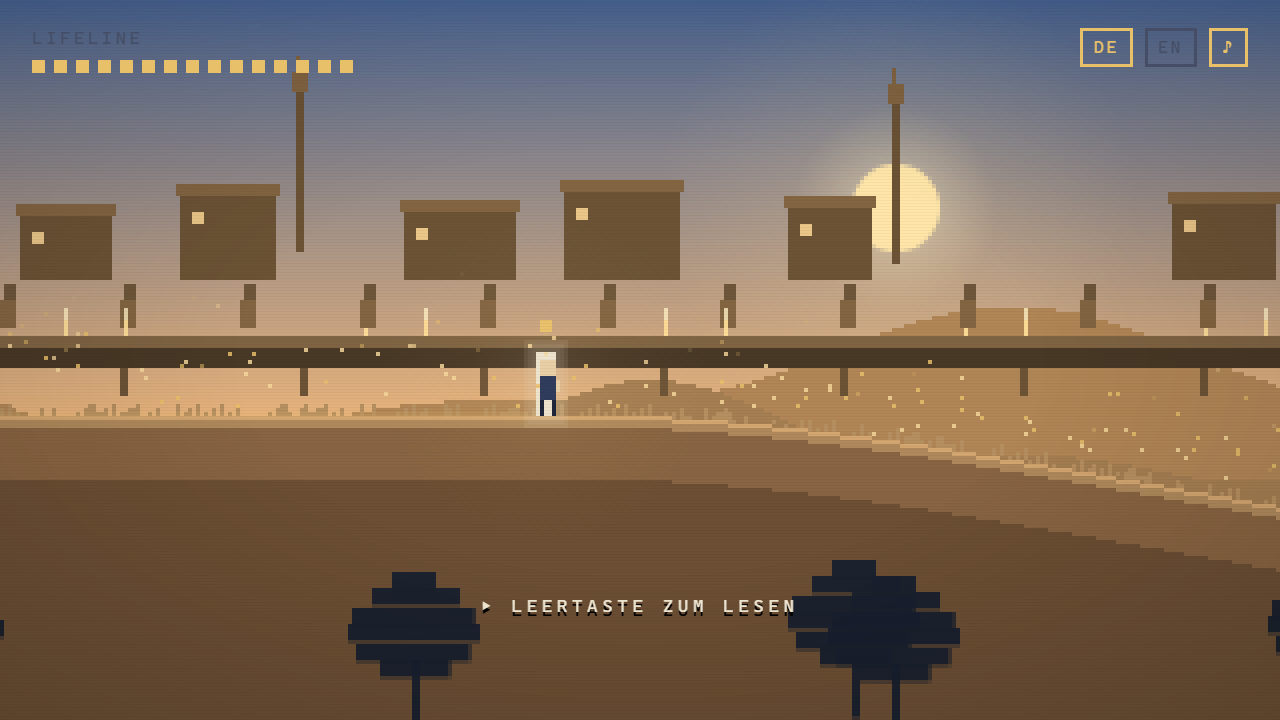
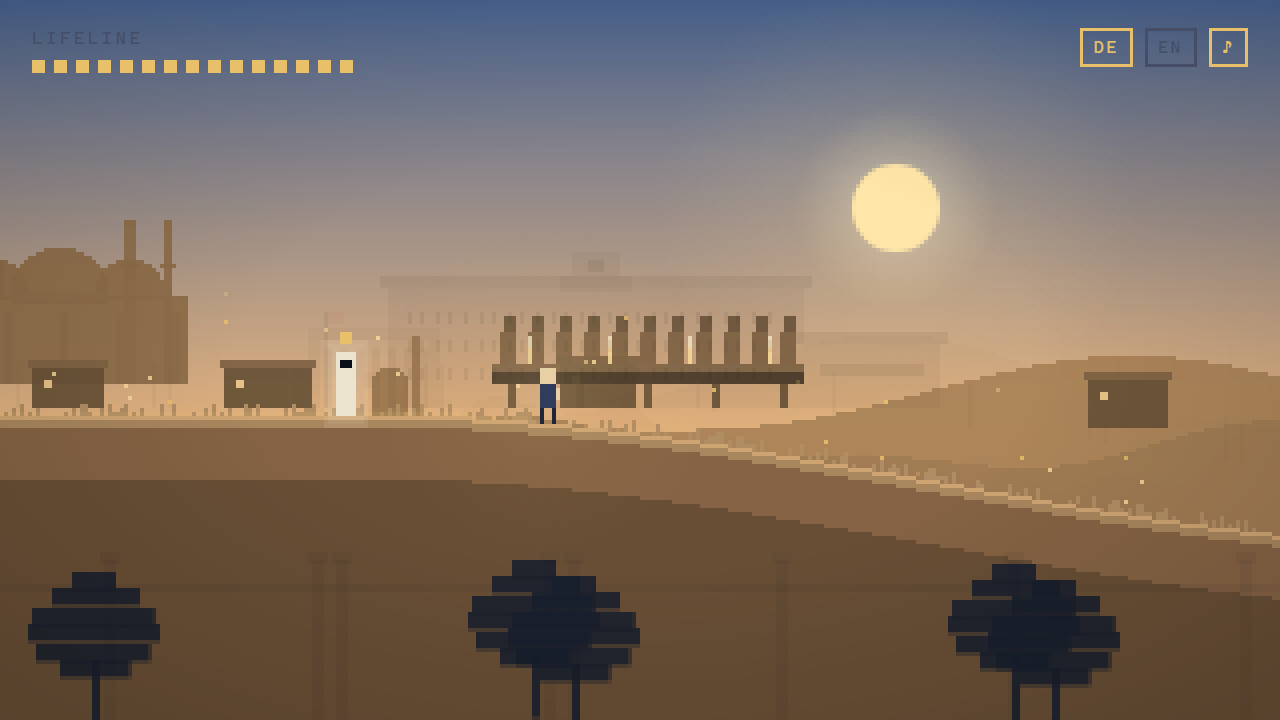
Thematische Wahrzeichen statt generischer Kulissen
Nach Recherche zu Formsprache und Proportionen der realen Bauten und
Landschaften (keine fremde Pixel-Art kopiert, alles selbst gezeichnet):

- Kindheit: Istanbul am Horizont mit Hagia Sophia — flache weite Kuppel
  im Verhaeltnis 5:2, zwei Halbkuppeln, gestufte Kaskade, vier Minarette
  in 2+2-Gruppierung, deren Spitzen nur knapp ueber den Kuppelscheitel
  ragen (der klassische Zeichenfehler macht sie doppelt so hoch). Dazu
  Galata-Turm und zweite Moschee. Der grosse Tisch ist jetzt ein
  einzelnes Element mit Sitzenden und Kerzen statt eines Bandes ueber die
  ganze Bildbreite; die viel zu grossen schwebenden Haeuser sind weg.
- 2011: Schweizer Sekundarschulhaus — langer ruhiger Quader, flaches
  Dach, Fensterraster, breiter niedriger Uhrenaufsatz, Turnhallentrakt,
  Fahnenmast, Zaun und geschlossenes Tor davor.
- Australien: Surfers Paradise als lueckenlose Turmwand direkt hinter
  dem Strand mit Massiv im mittleren Drittel und dem Q1 als schlankem
  Schaft mit Nadel. Palmen sind jetzt volle Silhouetten.
- Militaer: Panzer 87 auf dem Appellplatz — langer flacher Kasten auf
  Kettenband, Glacis vorn, Turm hinten, langes Rohr.
- Angola: Baobabs als Fassform mit flacher sparriger Krone, Schirm-
  akazien als liegende Platten, Foerderturm mit Seilrad und schraegen
  Stuetzbeinen, Wellblechzeile.

Changed region(s): [[0.0, 0.0917, 1.0, 1.0], [0.0, 0.7944, 0.125, 1.0]]

diff --git a/index.html b/index.html
@@ -629,7 +629,7 @@ function wrapX(i,spacing,par,pad){
   return ((i*spacing - camX*par)%(VW+pad)+VW+pad)%(VW+pad)-pad/2;
 }
 var SCENE={
-  table:  {far:'hillsWarm', mid:'mTable',   near:'olive'},
+  table:  {far:'istanbul',  mid:'mTable',   near:'olive'},
   gate:   {far:'hillsCold', mid:'mGate',    near:'rail'},
   ocean:  {far:'sea',       mid:'mCoast',   near:'palm'},
   sold:   {far:'flatGrey',  mid:'mSold',    near:'fence'},
@@ -669,6 +669,119 @@ function atmo(P,f,d){
                 Math.round(P.cap[2]*f+(P.sky[2]-P.cap[2]*f)*m)+')';
 }
 function haze(y,h,col,a){ x.globalAlpha=a; px(0,y,VW,h,col); x.globalAlpha=1; }
+/* Hagia Sophia — flache weite Kuppel, gestufte Kaskade, vier Minarette
+   die nur knapp ueber den Kuppelscheitel ragen (das ist die Signatur) */
+function hagia(cx,by,col,warm){
+  var bw=62, bh=16, apex=by-34, i;
+  /* Minarette zuerst, sie stehen hinter dem Block */
+  var mx=[cx-bw/2+3, cx-bw/2+13, cx+bw/2-15, cx+bw/2-5];
+  for(i=0;i<4;i++){
+    var w2=(i===2)?3:2, top=apex-5;
+    px(mx[i],top,w2,by-top,(i===2)?warm:col);
+    px(mx[i]-1,top+9,w2+2,1,col);           /* Serefe */
+    px(mx[i],top-2,w2,2,col);               /* Kappe  */
+  }
+  /* dritte, flachste Stufe */
+  px(cx-bw/2,apex+12,bw,by-(apex+12),col);
+  /* Halbkuppeln */
+  for(i=0;i<17;i++){
+    var hh=Math.round(Math.sqrt(Math.max(0,1-Math.pow((i-8)/8.5,2)))*7);
+    px(cx-25+i,apex+10-hh,1,hh+3,col);
+    px(cx+9+i,apex+10-hh,1,hh+3,col);
+  }
+  /* Hauptkuppel: Breite zu Hoehe 5:2, flach */
+  for(i=0;i<24;i++){
+    var dh=Math.round(Math.sqrt(Math.max(0,1-Math.pow((i-11.5)/12,2)))*10);
+    px(cx-12+i,apex+10-dh,1,dh+4,col);
+  }
+  px(cx-12,apex+11,24,2,warm);                /* Fensterband am Kuppelfuss */
+  /* Strebepfeiler */
+  for(i=0;i<5;i++){ px(cx-bw/2+3+i*14,apex+16,2,by-(apex+16),warm); }
+}
+
+/* Surfers Paradise — lueckenlose Turmwand, in der Mitte ein Massiv,
+   daraus der Q1 mit gerundeter Schulter und haarfeiner Nadel */
+function surfers(baseY,col,lit,par){
+  var i, off=(camX*par)|0;
+  for(i=0;i<VW;i++){
+    var wx=(i+off), n=((wx/7)|0);
+    var h=13+((n*37)%11)+((n*13)%7);
+    var d=Math.abs(((wx%1600)+1600)%1600-820);
+    if(d<150) h+=18-Math.round(d/12);        /* Massiv im mittleren Drittel */
+    px(i,baseY-h,1,h,col);
+    if(((wx*3)|0)%7===0 && h>16) px(i,baseY-h+2,1,1,lit);
+  }
+  /* Q1 — steht im Massiv, ragt weit darueber hinaus */
+  var period=1600, qw=((820-off)%period+period)%period;
+  var cand=[qw-period, qw, qw+period];
+  for(var qi=0;qi<cand.length;qi++){
+    var qx=cand[qi];
+    if(qx<-30||qx>VW+30) continue;
+    var qh=72;
+    px(qx,baseY-qh,8,qh,col);
+    px(qx+1,baseY-qh-4,6,4,col);
+    px(qx+2,baseY-qh-8,4,4,col);
+    px(qx+3,baseY-qh-26,2,18,col);
+    for(i=5;i<qh;i+=6) px(qx+1,baseY-qh+i,6,1,lit);
+  }
+}
+
+/* Panzer 87 — sehr langer flacher Kasten auf Kettenband, Glacis vorn,
+   Turm auf der hinteren Haelfte, langes Rohr nach vorn */
+function panzer(bx,by,col,dark){
+  px(bx,by-3,26,3,dark);                     /* Kettenband */
+  for(var i=0;i<6;i++) px(bx+2+i*4,by-2,2,2,col);
+  px(bx+2,by-7,22,4,col);                    /* Wanne */
+  px(bx,by-6,3,3,col);                       /* Glacis vorn */
+  px(bx+1,by-7,2,1,col);
+  px(bx+9,by-11,11,4,col);                   /* Turm */
+  px(bx+11,by-12,6,1,col);
+  px(bx-9,by-10,14,1,col);                   /* Kanonenrohr */
+  px(bx+19,by-12,1,2,col);                   /* Luke */
+}
+
+/* Schweizer Schulhaus — langer ruhiger Quader, flaches Dach,
+   breiter niedriger Uhrenaufsatz, Turnhallentrakt, Fahnenmast */
+function schulhaus(bx,by,col,lit,accent){
+  var W=104, H=30, i, r, c;
+  px(bx,by-H,W,H,col);
+  px(bx-2,by-H-3,W+4,3,lit);                 /* flaches Dach */
+  for(r=0;r<3;r++) for(c=0;c<26;c++)
+    px(bx+5+c*3.6,by-H+6+r*7,1,3,lit);       /* Fensterraster */
+  px(bx+W/2-9,by-H-3,18,4,col);              /* Eingangsrisalit */
+  px(bx+W/2-6,by-H-9,12,6,col);              /* Uhrenaufsatz, breit und flach */
+  px(bx+W/2-2,by-H-7,4,3,lit);
+  px(bx+W,by-16,34,16,col);                  /* Turnhalle */
+  px(bx+W-2,by-19,38,3,lit);
+  px(bx+W+4,by-11,26,3,lit);                 /* Bandfenster */
+  px(bx-16,by-24,1,24,lit);                  /* Fahnenmast */
+  px(bx-15,by-24,4,3,accent);
+}
+
+/* Baobab: dicker Fassstamm, flache sparrige Krone */
+function baobab(bx,by,sc,col){
+  var tw=Math.round(7*sc), th=Math.round(17*sc), i;
+  px(bx,by-th,tw,th,col);
+  px(bx-1,by-4*sc,tw+2,4*sc,col);
+  for(i=0;i<5;i++){
+    var a=[-9,-5,0,5,9][i]*sc, l=[4,6,7,6,4][i]*sc;
+    px(bx+tw/2+a-1,by-th-l,2,l,col);
+  }
+  px(bx-8*sc,by-th-2,tw+16*sc,2,col);
+}
+function akazie(bx,by,sc,col){
+  px(bx+2,by-9*sc,2,9*sc,col);
+  px(bx-8*sc,by-12*sc,20*sc,3*sc,col);
+  px(bx-4*sc,by-14*sc,12*sc,2*sc,col);
+}
+/* Foerderturm mit Seilrad und schraegen Stuetzbeinen */
+function foerderturm(bx,by,col){
+  px(bx+4,by-32,3,32,col); px(bx+11,by-32,3,32,col);
+  px(bx+4,by-18,10,2,col); px(bx+4,by-8,10,2,col);
+  for(var i=0;i<10;i++) px(bx+4+i,by-28+i,1,1,col);
+  px(bx+6,by-36,5,5,col);                    /* Seilrad */
+  for(i=0;i<12;i++) px(bx+14+i,by-30+i*2.4,2,2,col);
+}
 function tree(kind,bx,by,sc,col){
   var i,w;
   if(kind==='pine'){
@@ -676,16 +789,17 @@ function tree(kind,bx,by,sc,col){
     for(i=0;i<6;i++){ w=(15-i*2.2)*sc; px(bx+3-w/2,by-(5+i*3.4)*sc,w,4*sc,col); }
     px(bx+2,by-27*sc,2,3*sc,col);
   } else if(kind==='palm'){
-    for(i=0;i<12*sc;i++) px(bx+2+Math.sin(i/(9*sc))*3,by-i,1,1,col);
-    var ty=by-12*sc;
-    for(i=0;i<5;i++){
-      var dx=[-8,-5,0,5,8][i]*sc, dy=[-1,-4,-6,-4,-1][i]*sc;
-      for(var k=0;k<Math.abs(dx);k++){
-        var fx=bx+2+(dx>0?k:-k), fy=ty+dy*k/Math.max(1,Math.abs(dx))+k*k*.05;
-        px(fx,fy,1,1+(k<3?1:0),col);
+    var th2=Math.round(14*sc);
+    for(i=0;i<th2;i++) px(bx+2+Math.round(Math.sin(i/(th2*.9))*3),by-i,2+(i<th2*.3?1:0),1,col);
+    var ty2=by-th2, fr=[[-11,-2],[-7,-6],[0,-8],[7,-6],[11,-2]];
+    for(i=0;i<fr.length;i++){
+      var ex=fr[i][0]*sc, ey=fr[i][1]*sc, steps=Math.max(3,Math.round(Math.abs(ex)));
+      for(var t3=0;t3<=steps;t3++){
+        var u2=t3/steps;
+        var fx2=bx+3+ex*u2, fy2=ty2+ey*u2+u2*u2*4*sc;
+        px(fx2,fy2,2,2+(u2<.5?1:0),col);
       }
-    }
-  } else if(kind==='acacia'){
+    }  } else if(kind==='acacia'){
     px(bx+3,by-11*sc,2,11*sc,col);
     for(i=0;i<4;i++){ w=(20-i*5)*sc; px(bx+4-w/2,by-(13+i*2)*sc,w,2*sc,col); }
   } else if(kind==='cypress'){
@@ -714,6 +828,24 @@ function farLayer(kind,al,P){
   if(k==='alps'){ peaks(.10,96,atmo(P,.30,1),true); peaks(.18,110,atmo(P,.44,.62),false); }
   else if(k==='hillsWarm'){
     ridge(.10,13,96,.018,c1,0,0); ridge(.18,10,110,.026,c2,0,0);
+  }
+  else if(k==='istanbul'){
+    ridge(.09,10,104,.016,c1,0,0);
+    var hx=((VW*.46 - camX*.13)%(VW+220)+VW+220)%(VW+220)-110;
+    if(hx>-140&&hx<VW+140) hagia(hx,96,atmo(P,.20,.42),atmo(P,.34,.34));
+    /* Galata Turm links, zweite Moschee rechts */
+    var gx=hx-92;
+    if(gx>-20&&gx<VW+20){
+      px(gx,80,3,20,atmo(P,.28,.9)); px(gx-1,86,5,1,atmo(P,.28,.9));
+      px(gx,76,3,4,atmo(P,.34,.9));
+    }
+    var m2=hx+78;
+    if(m2>-20&&m2<VW+20){
+      for(i=0;i<9;i++){ var d2=Math.round(Math.sqrt(Math.max(0,1-Math.pow((i-4)/4.5,2)))*4);
+        px(m2+i,96-d2,1,d2+8,atmo(P,.28,.9)); }
+      px(m2+10,84,2,20,atmo(P,.28,.9));
+    }
+    ridge(.18,5,112,.030,c2,0,0);
   }
   else if(k==='hillsCold'){ ridge(.10,11,100,.020,c1,0,0); ridge(.18,9,112,.028,c2,1,0); }
   else if(k==='sea'){
@@ -780,50 +912,65 @@ function midLayer(kind,al,P){
   var i,bx,by,h,w,cA=atmo(P,.44,.34), cB=atmo(P,.32,.30);
 
   if(k==='mTable'){
-    var tY=Math.max(38,Math.min(140,anchor(.34,VW/2)-20));
-    px(0,tY,VW,3,shade(P.cap,.60));
-    px(0,tY+3,VW,5,shade(P.cap,.34));
-    for(i=0;i<24;i++){
-      bx=((i*28-camX*.34)%(VW+56)+VW+56)%(VW+56)-28;
-      if(i%3===0) px(bx,tY+8,2,7,cB);
-      if(i%2===0){ px(bx,tY-9,4,7,cA); px(bx+1,tY-13,3,4,shade(P.cap,.52)); }
-      if(i%5===0){ px(bx+1,tY-4,1,4,'rgba(255,222,152,.95)'); px(bx+1,tY-7,1,3,'rgba(255,240,196,.8)'); }
+    /* niedrige Dorfhaeuser auf der Bodenlinie, klein und ruhig */
+    for(i=0;i<6;i++){
+      bx=wrapX(i,132,.26,160); by=anchor(.26,bx)-2;
+      h=9+((i*37)%4); w=17+((i*29)%7);
+      px(bx,by-h,w,h,cB); px(bx-1,by-h-2,w+2,2,cA);
+      px(bx+3,by-h+3,2,2,'rgba(252,214,150,.9)');
     }
-    for(i=0;i<4;i++){
-      bx=wrapX(i,180,.26,210); h=22+((i*37)%10); w=32+((i*29)%16);
-      px(bx,tY-h-14,w,h,cB); px(bx-1,tY-h-17,w+2,3,cA);
-      px(bx+3,tY-h-10,3,3,'rgba(250,212,146,.9)');
-      if(i%3===0){ px(bx+w+5,tY-h-40,2,40,cB); px(bx+w+4,tY-h-45,4,5,cA); px(bx+w+5,tY-h-49,1,4,cA); }
+    /* der grosse Tisch: ein Element, nicht ein Band ueber die ganze Breite */
+    for(i=0;i<2;i++){
+      bx=wrapX(i,420,.40,460); by=anchor(.40,bx)-2;
+      var TW=78;
+      px(bx,by-11,TW,2,shade(P.cap,.62));          /* Platte */
+      px(bx,by-9,TW,3,shade(P.cap,.34));           /* Tuch   */
+      for(var lg2=0;lg2<5;lg2++) px(bx+4+lg2*17,by-6,2,6,cB);
+      for(var pe=0;pe<7;pe++){
+        var qx2=bx+6+pe*11;
+        px(qx2,by-16,3,5,cA);                       /* Sitzende, klein */
+        px(qx2,by-19,3,3,shade(P.cap,.52));
+      }
+      for(var cd=0;cd<4;cd++){
+        px(bx+9+cd*20,by-15,1,4,'rgba(255,226,158,.95)');
+        px(bx+9+cd*20,by-18,1,3,'rgba(255,244,206,.85)');
+      }
     }
   }
   else if(k==='mGate'){
-    for(i=0;i<16;i++){ bx=wrapX(i,42,.34,56); by=anchor(.34,bx)-2; px(bx,by-18,2,18,cB); }
-    for(i=0;i<4;i++){
-      bx=wrapX(i,300,.34,320); by=anchor(.34,bx)-2;
-      px(bx,by-58,4,58,cA); px(bx+52,by-58,4,58,cA);
-      px(bx-2,by-63,60,5,cA);
-      for(var b2=0;b2<10;b2++) px(bx+6+b2*5,by-54,2,52,cB);
-      px(bx+24,by-34,6,5,shade(P.cap,.62));
-      px(bx+18,by-72,20,9,cB); px(bx+21,by-69,14,1,shade(P.cap,.14));
+    /* Schulhaus mit Pausenplatz, Zaun und geschlossenem Tor */
+    for(i=0;i<3;i++){
+      bx=wrapX(i,340,.32,380); by=anchor(.32,bx)-2;
+      schulhaus(bx,by,cB,shade(P.cap,.16),'rgba(196,60,48,.9)');
+    }
+    for(i=0;i<20;i++){
+      bx=wrapX(i,34,.44,50); by=anchor(.44,bx)-2;
+      px(bx,by-11,1,11,cA);
+    }
+    for(i=0;i<3;i++){
+      bx=wrapX(i,340,.44,380); by=anchor(.44,bx)-2;
+      px(bx,by-17,3,17,cA); px(bx+30,by-17,3,17,cA);
+      px(bx,by-20,33,3,cA);
+      for(var b3=0;b3<7;b3++) px(bx+4+b3*4,by-15,2,15,cB);
+      px(bx+14,by-9,4,4,shade(P.cap,.6));
     }
   }
   else if(k==='mCoast'){
-    /* Duenen mit Strandhafer und ein paar Brettern im Sand */
+    /* Turmwand von Surfers Paradise direkt hinter dem Strand */
+    var hz2=Math.max(48,Math.min(150,anchor(.20,VW/2)-30));
+    surfers(hz2+2,atmo(P,.30,.55),'rgba(255,252,236,.75)',.20);
+    /* Duenensaum davor */
     for(i=0;i<VW;i++){
       var dw=(camX*.34+i)*.026;
-      var dh=groundY(camX+i)-8+Math.sin(dw)*5+Math.sin(dw*2.7)*3;
-      px(i,dh,1,VH-dh,'rgb('+Math.round(P.gnd[0]*.92)+','+Math.round(P.gnd[1]*.92)+','+Math.round(P.gnd[2]*.9)+')');
-      px(i,dh,1,1,'rgb('+Math.round(P.cap[0]*.94)+','+Math.round(P.cap[1]*.94)+','+Math.round(P.cap[2]*.92)+')');
-      if(((camX*.34+i)|0)%7===0){
-        var gh=2+(((i*13)|0)%3);
-        px(i,dh-gh,1,gh,'rgba(150,150,86,.75)');
-      }
+      var dh=groundY(camX+i)-7+Math.sin(dw)*4;
+      px(i,dh,1,VH-dh,'rgb('+Math.round(P.gnd[0]*.95)+','+Math.round(P.gnd[1]*.95)+','+Math.round(P.gnd[2]*.92)+')');
+      px(i,dh,1,1,'rgb('+Math.round(P.cap[0]*.96)+','+Math.round(P.cap[1]*.96)+','+Math.round(P.cap[2]*.94)+')');
+      if(((camX*.34+i)|0)%9===0) px(i,dh-2-(((i*13)|0)%3),1,3,'rgba(158,152,88,.7)');
     }
-    for(i=0;i<4;i++){
-      bx=wrapX(i,190,.34,210); by=anchor(.34,bx)-10;
-      px(bx,by-18,3,18,'rgba(232,238,244,.9)');
-      px(bx-1,by-20,5,3,'rgba(226,96,80,.9)');
-      if(i%2===0){ px(bx+16,by-3,10,3,'rgba(60,80,96,.55)'); px(bx+18,by-6,6,3,'rgba(60,80,96,.4)'); }
+    for(i=0;i<3;i++){
+      bx=wrapX(i,230,.34,250); by=anchor(.34,bx)-9;
+      px(bx,by-17,3,17,'rgba(240,246,250,.92)');
+      px(bx-1,by-19,5,3,'rgba(226,96,80,.92)');
     }
   }
   else if(k==='mSold'){
@@ -841,6 +988,10 @@ function midLayer(kind,al,P){
       px(bx,by-26,74,26,cB); px(bx-3,by-31,80,5,cA);
       for(var kf=0;kf<8;kf++) px(bx+6+kf*8,by-20,5,7,shade(P.cap,.14));
     }
+    for(i=0;i<4;i++){
+      bx=wrapX(i,196,.40,220); by=anchor(.40,bx)-2;
+      panzer(bx,by,atmo(P,.26,.20),atmo(P,.16,.10));
+    }
     for(i=0;i<12;i++){
       bx=wrapX(i,110,.46,130); by=anchor(.46,bx)-2;
       px(bx,by-30,1,30,atmo(P,.22,.15));
@@ -849,12 +1000,25 @@ function midLayer(kind,al,P){
     }
   }
   else if(k==='mDerrick'){
+    for(i=0;i<3;i++){
+      bx=wrapX(i,300,.34,330); by=anchor(.34,bx)-2;
+      foerderturm(bx,by,cA);
+      px(bx+26,by-16,7,16,cB);                     /* Silo */
+      px(bx+26,by-18,7,2,cA);
+      px(bx+38,by-22,2,22,cB);                     /* Kamin */
+    }
+    for(i=0;i<7;i++){
+      bx=wrapX(i,124,.30,150); by=anchor(.30,bx)-2;
+      var wl=14+((i*29)%8);
+      px(bx,by-7,wl,7,cB); px(bx-1,by-9,wl+2,2,cA);
+    }
     for(i=0;i<4;i++){
-      bx=wrapX(i,240,.34,270); by=anchor(.34,bx)-2;
-      px(bx+11,by-52,3,52,cA); px(bx,by-3,26,3,cB);
-      px(bx+2,by-34,22,2,cB); px(bx+5,by-18,16,2,cB);
-      px(bx+9,by-60,7,8,cA);
-      x.globalAlpha=al*(.5+Math.sin(tt*.018+i)*.18); px(bx+11,by-63,3,3,'#FFCE8A'); x.globalAlpha=al;
+      bx=wrapX(i,230,.42,260); by=anchor(.42,bx)-2;
+      akazie(bx,by,1,atmo(P,.20,.30));
+    }
+    for(i=0;i<2;i++){
+      bx=wrapX(i,430,.50,460); by=anchor(.50,bx)-2;
+      baobab(bx,by,1,atmo(P,.16,.22));
     }
   }
   else if(k==='mArch'){
